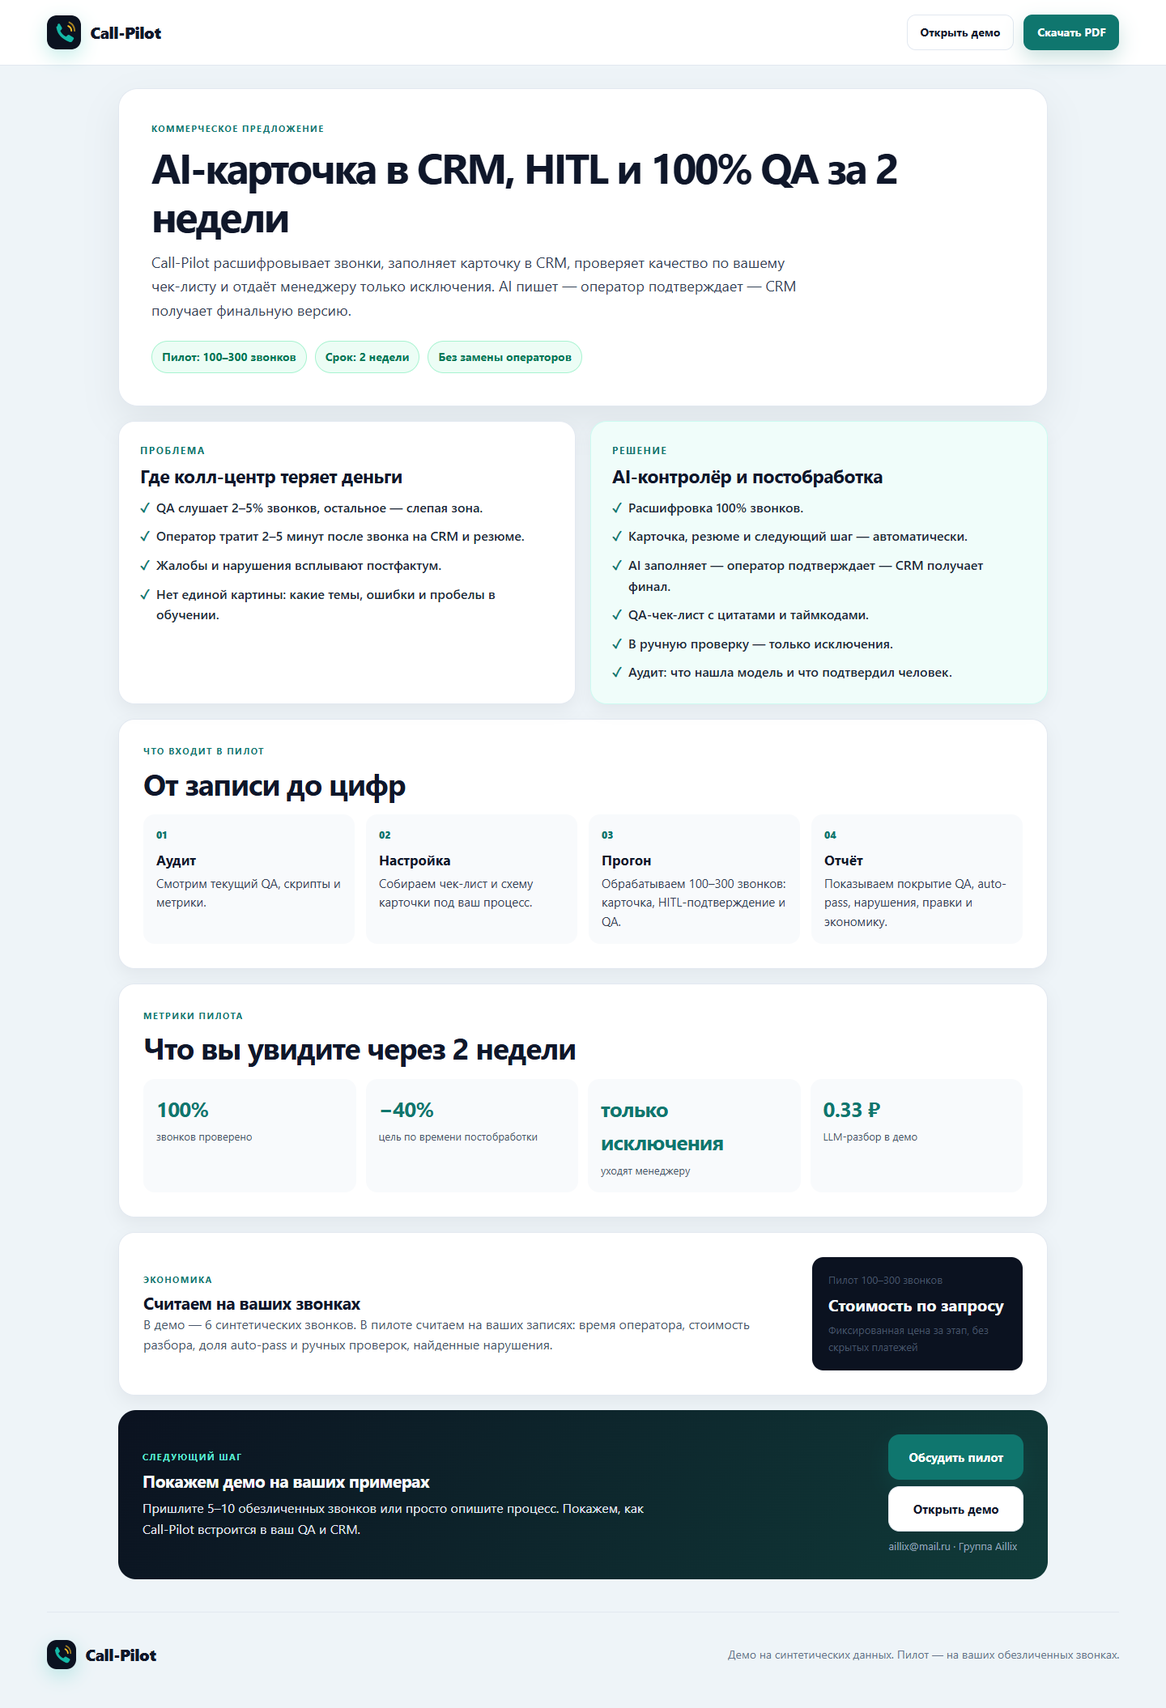
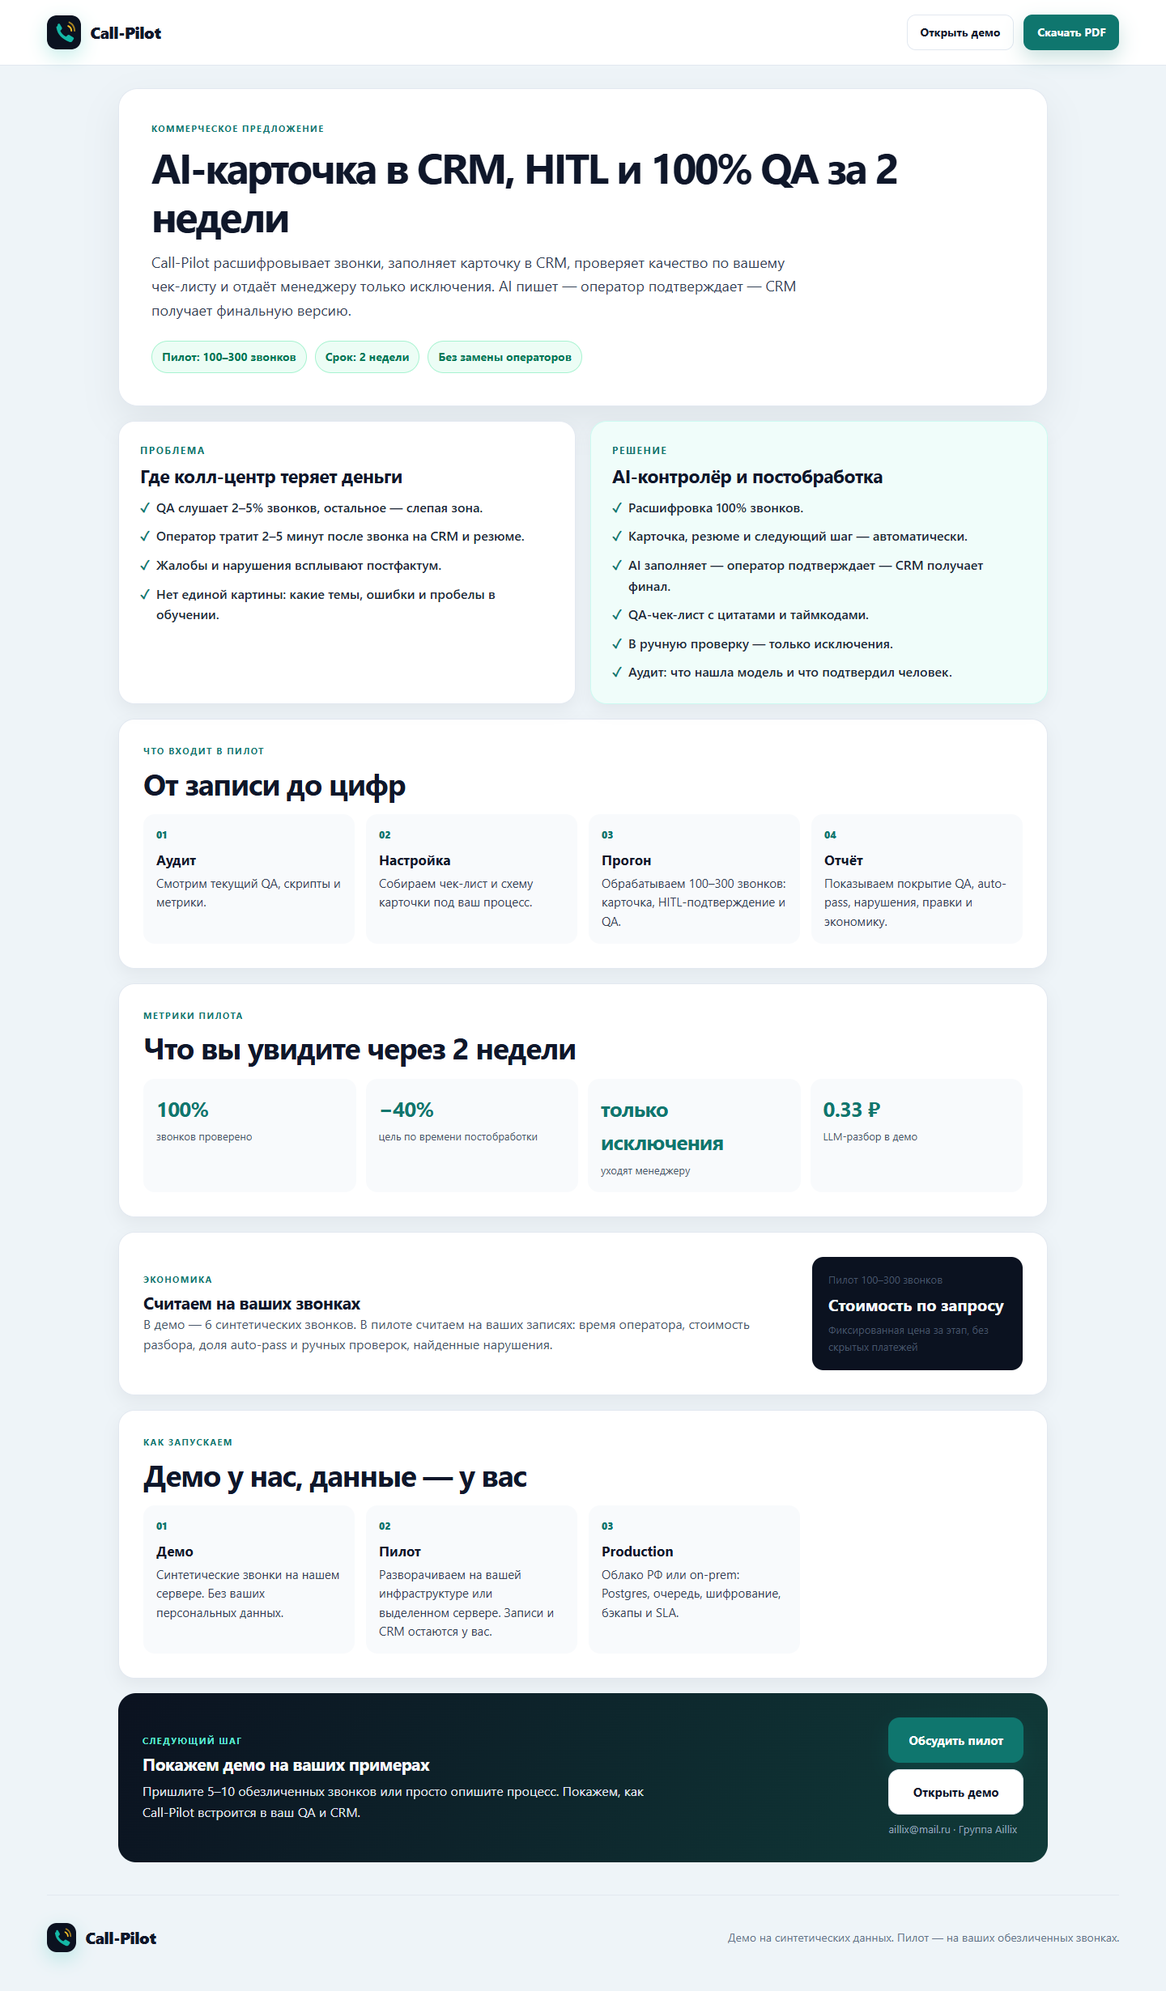
feat: add deployment options and Aillix product card brief

diff --git a/call-center/templates/landing.html b/call-center/templates/landing.html
@@ -19,6 +19,7 @@
     <a href="#how">Как работает</a>
     <a href="#hitl">HITL</a>
     <a href="#demo">Демо</a>
+    <a href="#deploy">Запуск</a>
     <a href="#pricing">Тарифы</a>
     <a href="#faq">Вопросы</a>
   </nav>
@@ -253,6 +254,12 @@
         <p>Docker, база и аудио на стороне клиента, локальный STT.</p>
         <div class="service-result">Результат: данные не выходят за периметр</div>
       </article>
+      <article class="service-card service-card-wide">
+        <div class="service-tag">09 · Запуск</div>
+        <h3>Инфраструктура и развёртывание</h3>
+        <p>Подбираем контур, разворачиваем, подключаем телефонию и CRM, настраиваем бэкапы и доступы.</p>
+        <div class="service-result">Результат: работающий пилот без вашего администрирования</div>
+      </article>
     </div>
   </section>
 
@@ -339,6 +346,34 @@
       <article class="security-card"><div class="security-icon">▣</div><h3>Шифрование аудио</h3><p>Реальные записи хранятся зашифрованными и отдаются только через защищённый маршрут.</p></article>
       <article class="security-card"><div class="security-icon">◎</div><h3>Аудит и роли</h3><p>Видно, что предложила модель, что изменил человек и кто подтвердил карточку.</p></article>
       <article class="security-card"><div class="security-icon">⌂</div><h3>On-prem</h3><p>Для крупных клиентов — контур на своей инфраструктуре и локальный STT.</p></article>
+    </div>
+  </section>
+
+  <section class="section" id="deploy">
+    <div class="section-head">
+      <div class="eyebrow">Как запускаем</div>
+      <h2>Демо — у нас. Пилот и production — в вашем контуре.</h2>
+      <p class="muted">Не храним реальные звонки на публичном демо-сервере. Клиентские данные остаются у клиента или в согласованном российском облаке.</p>
+    </div>
+    <div class="deploy-grid">
+      <article class="deploy-card">
+        <div class="deploy-number">01</div>
+        <h3>Демо у нас</h3>
+        <p>Синтетические звонки и публичный интерфейс. Без ваших персональных данных и без подключения к вашей CRM.</p>
+        <span class="deploy-tag">0 ₽ для посетителя</span>
+      </article>
+      <article class="deploy-card deploy-card-accent">
+        <div class="deploy-number">02</div>
+        <h3>Пилот у вас</h3>
+        <p>Разворачиваем на вашей инфраструктуре или выделенном сервере. Записи, CRM и доступы остаются под вашим контролем.</p>
+        <span class="deploy-tag">100–300 звонков · 2 недели</span>
+      </article>
+      <article class="deploy-card">
+        <div class="deploy-number">03</div>
+        <h3>Production</h3>
+        <p>Облако РФ или on-prem: PostgreSQL, очередь, worker, шифрование аудио, бэкапы и SLA.</p>
+        <span class="deploy-tag">по проекту</span>
+      </article>
     </div>
   </section>
 

diff --git a/call-center/static/style.css b/call-center/static/style.css
@@ -577,6 +577,18 @@ textarea { resize: vertical; min-height: 60px; }
   box-shadow: var(--shadow-sm); display: flex; flex-direction: column; gap: 8px;
 }
 .service-card-accent { background: #f0fdfa; border-color: #ccfbf1; }
+.service-card-wide {
+  grid-column: 1 / -1;
+  display: grid;
+  grid-template-columns: .35fr 1fr 1.25fr .9fr;
+  align-items: center;
+  gap: 20px;
+}
+.service-card-wide .service-result {
+  border-top: 0;
+  border-left: 1px dashed var(--line);
+  padding: 0 0 0 18px;
+}
 .service-tag { font-size: 11px; text-transform: uppercase; letter-spacing: .08em; font-weight: 800; color: var(--teal-dark); }
 .service-card h3 { font-size: 18px; line-height: 1.25; }
 .service-card p { color: #334155; font-size: 15px; line-height: 1.55; flex: 1; }
@@ -613,6 +625,14 @@ textarea { resize: vertical; min-height: 60px; }
 .security-icon { width: 40px; height: 40px; border-radius: 12px; background: #f0fdfa; color: var(--teal-dark); display: flex; align-items: center; justify-content: center; font-size: 18px; font-weight: 800; margin-bottom: 14px; }
 .security-card h3 { font-size: 18px; margin-bottom: 6px; }
 .security-card p { color: #334155; font-size: 15px; line-height: 1.55; }
+
+.deploy-grid { display: grid; grid-template-columns: repeat(3, 1fr); gap: 16px; }
+.deploy-card { background: #fff; border: 1px solid var(--line); border-radius: 20px; padding: 26px; box-shadow: var(--shadow-sm); }
+.deploy-card-accent { background: #f0fdfa; border-color: #99f6e4; }
+.deploy-number { font-size: 12px; font-weight: 900; letter-spacing: .1em; color: var(--teal-dark); margin-bottom: 18px; }
+.deploy-card h3 { font-size: 21px; margin-bottom: 8px; }
+.deploy-card p { color: #334155; font-size: 16px; line-height: 1.6; min-height: 76px; }
+.deploy-tag { display: inline-block; margin-top: 8px; border-top: 1px dashed var(--line); padding-top: 10px; width: 100%; font-size: 13px; color: #0f766e; font-weight: 800; }
 
 .package-grid { display: grid; grid-template-columns: repeat(4, 1fr); gap: 16px; }
 .package-card { background: #fff; border: 1px solid var(--line); border-radius: 20px; padding: 24px; box-shadow: var(--shadow-sm); display: flex; flex-direction: column; }
@@ -731,8 +751,11 @@ textarea { resize: vertical; min-height: 60px; }
   .hitl-grid { grid-template-columns: 1fr; }
   .hitl-arrow { display: none; }
   .demo-grid { grid-template-columns: 1fr; }
+  .deploy-grid { grid-template-columns: 1fr; }
   .lead-card { grid-template-columns: 1fr; gap: 24px; }
   .qa-cards { grid-template-columns: 1fr; }
+  .service-card-wide { grid-template-columns: 1fr; gap: 8px; }
+  .service-card-wide .service-result { border-left: 0; border-top: 1px dashed var(--line); padding: 10px 0 0; }
 }
 @media (max-width: 720px) {
   .main { padding: 20px 16px; }

diff --git a/call-center/templates/offer.html b/call-center/templates/offer.html
@@ -95,6 +95,18 @@
     </div>
   </section>
 
+  <section class="offer-section">
+    <div class="section-head">
+      <div class="eyebrow">Как запускаем</div>
+      <h2>Демо у нас, данные — у вас</h2>
+    </div>
+    <div class="offer-steps">
+      <div><span>01</span><strong>Демо</strong><p>Синтетические звонки на нашем сервере. Без ваших персональных данных.</p></div>
+      <div><span>02</span><strong>Пилот</strong><p>Разворачиваем на вашей инфраструктуре или выделенном сервере. Записи и CRM остаются у вас.</p></div>
+      <div><span>03</span><strong>Production</strong><p>Облако РФ или on-prem: Postgres, очередь, шифрование, бэкапы и SLA.</p></div>
+    </div>
+  </section>
+
   <section class="offer-cta">
     <div>
       <div class="eyebrow">Следующий шаг</div>

diff --git a/call-center/scripts/screenshots.py b/call-center/scripts/screenshots.py
@@ -91,6 +91,8 @@ def main() -> int:
                 page.screenshot(
                     path=str(SCREENSHOTS / filename),
                     full_page=full_page,
+                    animations="disabled",
+                    timeout=60000,
                 )
 
             # A compact hero image for social posts / Telegram.

diff --git a/docs/AILLIX_CALLPILOT_CARD.md b/docs/AILLIX_CALLPILOT_CARD.md
@@ -1,0 +1,206 @@
+# Задание: карточка Call-Pilot на aillix.ru
+
+## Цель
+
+Добавить на сайт группы Aillix отдельную карточку продукта **Call-Pilot** и привести трафик на демо и лендинг `call-pilot.ru`.
+
+Карточка должна:
+
+- показать Call-Pilot как продукт группы Aillix;
+- объяснить связку **AI заполняет карточку → оператор подтверждает → CRM получает результат → QA проверяет 100% звонков**;
+- вести на демо `call-pilot.ru/dashboard`;
+- не дублировать весь лендинг Call-Pilot и не конкурировать с ним в поиске.
+
+## Где разместить
+
+Рекомендуемый вариант: новый блок **«Продукты»** на `aillix.ru` после блока «Услуги».
+
+Альтернатива: отдельная карточка в разделе «Кейсы», если новый раздел не нужен.
+
+Не размещать карточку внутри списка обычных услуг: Call-Pilot — продукт, а не часовая консультация.
+
+## Заголовок блока
+
+```text
+Продукты Aillix
+```
+
+Подзаголовок:
+
+```text
+AI-сервисы, которые мы разработали и довели до рабочего состояния.
+```
+
+## Карточка Call-Pilot
+
+### Бейдж
+
+```text
+Продукт Aillix
+```
+
+### Заголовок
+
+```text
+Call-Pilot
+```
+
+### Подзаголовок
+
+```text
+AI-карточка в CRM и 100% QA звонков
+```
+
+### Основной текст
+
+```text
+Call-Pilot расшифровывает каждый звонок, заполняет карточку в CRM и проверяет качество по 10 критериям. AI готовит черновик — оператор подтверждает — CRM получает финальную версию. QA смотрит только исключения.
+```
+
+### Короткий вариант для карточки
+
+```text
+AI заполняет карточку. Оператор подтверждает. CRM получает готовый результат. 100% звонков проходят QA-проверку.
+```
+
+### Теги
+
+```text
+HITL · QA 100% · Oktell · 152-ФЗ · Пилот 2 недели
+```
+
+### Метрики на карточке
+
+Использовать только проверяемые цифры:
+
+```text
+100% звонков проходят разбор
+10 критериев QA
+0 карточек в CRM без подтверждения
+2 недели до пилота
+```
+
+Не писать «−40%» как факт, если это цель, а не измеренный результат. Можно подписать: «цель пилота — −40% ручной постобработки».
+
+### CTA
+
+Основная кнопка:
+
+```text
+Смотреть демо
+```
+
+Ссылка:
+
+```text
+https://call-pilot.ru/dashboard?utm_source=aillix&utm_medium=product_card&utm_campaign=callpilot_demo
+```
+
+Вторая кнопка:
+
+```text
+Обсудить внедрение
+```
+
+Ссылка:
+
+```text
+https://call-pilot.ru/?utm_source=aillix&utm_medium=product_card&utm_campaign=callpilot_lead#lead
+```
+
+Третья ссылка:
+
+```text
+Подробнее о продукте →
+```
+
+Ссылка:
+
+```text
+https://call-pilot.ru/?utm_source=aillix&utm_medium=product_card&utm_campaign=callpilot_landing
+```
+
+## Визуал
+
+Использовать один из файлов:
+
+```text
+call-center/screenshots/dashboard.png
+call-center/screenshots/landing_hero.png
+```
+
+Рекомендация:
+
+- для широкой карточки — `dashboard.png`, 16:10;
+- для hero-карточки продукта — `landing_hero.png`, 16:9;
+- не использовать `landing.png` целиком: страница слишком длинная для карточки.
+
+На изображении не должно быть реальных персональных данных. Демо-данные синтетические.
+
+## Дизайн
+
+- Стиль Aillix: тёмный технологичный фон, акцент Aillix, крупная типографика.
+- Карточка должна выглядеть как продукт, а не как баннер.
+- Внутри карточки: бейдж, заголовок, подзаголовок, 2–3 строки описания, теги, метрики, CTA.
+- Hover: лёгкий подъём и подсветка границы.
+- На мобильном: одна колонка, кнопки на всю ширину.
+- Не использовать стоковые фото и фейковые логотипы клиентов.
+
+## SEO
+
+- Карточка не должна копировать лендинг Call-Pilot.
+- Заголовок карточки: `Call-Pilot — AI-карточка в CRM и 100% QA звонков`.
+- Ссылка на `call-pilot.ru` — обычная ссылка, без `nofollow`.
+- `rel="noopener"` для внешних переходов.
+- Не делать canonical на Aillix: canonical должен остаться на `call-pilot.ru` у самого продукта.
+- В описании карточки использовать 1–2 ключевых запроса: «контроль качества звонков», «AI-карточка в CRM».
+
+## Аналитика
+
+События:
+
+```text
+aillix_callpilot_card_view
+aillix_callpilot_demo_click
+aillix_callpilot_lead_click
+aillix_callpilot_landing_click
+```
+
+UTM уже указаны в ссылках. Не менять `utm_source=aillix`.
+
+## Обратная ссылка
+
+На Call-Pilot в футере уже есть:
+
+```text
+Группа Aillix · aillix.ru
+```
+
+Проверить, что ссылка ведёт на `https://aillix.ru/` и открывается корректно.
+
+## Что не делать
+
+- Не писать `CallPilot` без дефиса в пользовательских текстах.
+- Не обещать «полное соответствие 152-ФЗ» без юридической проверки.
+- Не публиковать фейковые отзывы, логотипы клиентов и цифры.
+- Не делать карточку отдельным лендингом с полным дублем Call-Pilot.
+- Не вести на старую версию демо или на `callpilot.*`.
+
+## Критерии приёмки
+
+- [ ] На aillix.ru есть отдельная карточка Call-Pilot.
+- [ ] В карточке есть HITL-формулировка.
+- [ ] Есть ссылка на демо и на пилот.
+- [ ] UTM-метки проставлены.
+- [ ] Бренд написан `Call-Pilot`.
+- [ ] На мобильном карточка не ломается.
+- [ ] Нет реальных персональных данных на скриншоте.
+- [ ] Ссылка на демо открывается и ведёт на `call-pilot.ru/dashboard`.
+- [ ] Обратная ссылка с Call-Pilot на Aillix работает.
+
+## Ориентир по срокам
+
+- Карточка и тексты: 2–3 часа.
+- Вёрстка и адаптив: 3–4 часа.
+- Аналитика и проверка ссылок: 1 час.
+- Итого: 1 рабочий день.
